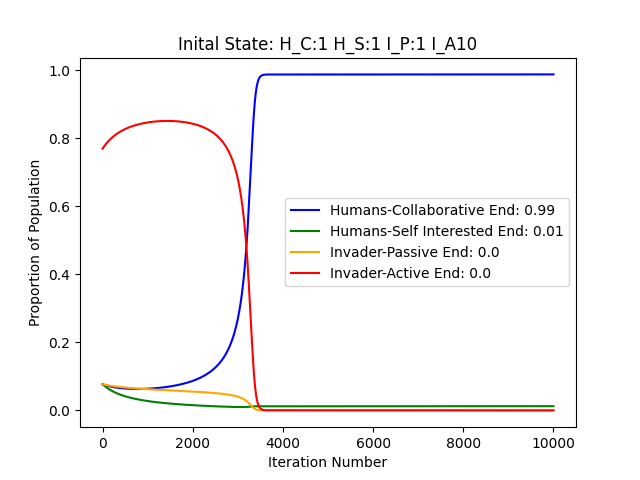
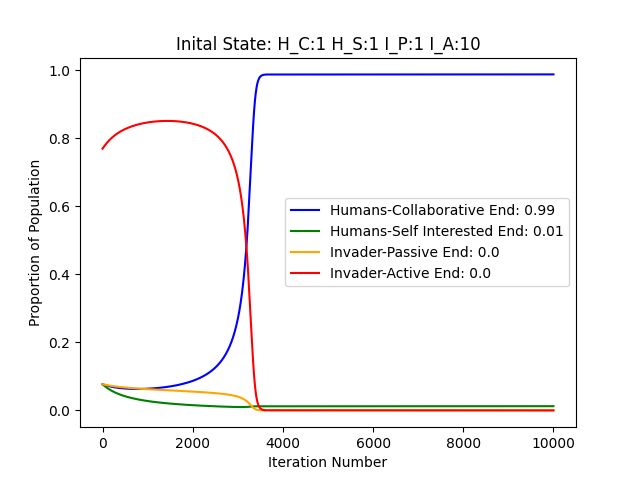
Update population images

Changed region(s): [[0.2812, 0.0625, 0.75, 0.125]]

diff --git a/Population-Game.py b/Population-Game.py
@@ -148,7 +148,7 @@ def main():
        plt.plot(population_df['iteration'], population_df['invader_passive'], label = f"Invader-Passive End: {round(population_df['invader_passive'].iloc[0], 2)}", color = 'orange')
        plt.plot(population_df['iteration'], population_df['invader_active'], label = f"Invader-Active End: {round(population_df['invader_active'].iloc[0], 2)}", color = 'red')
        # Add title and labels
-       plt.title(f'Inital State: H_C:{human_collaborate} H_S:{human_self_interested} I_P:{invader_passive} I_A{invader_active}')
+       plt.title(f'Inital State: H_C:{human_collaborate} H_S:{human_self_interested} I_P:{invader_passive} I_A:{invader_active}')
        plt.xlabel('Iteration Number')
        plt.ylabel(f'Proportion of Population')
        plt.legend()
